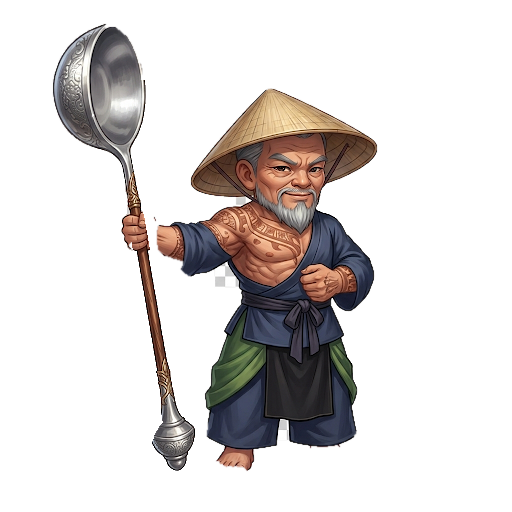
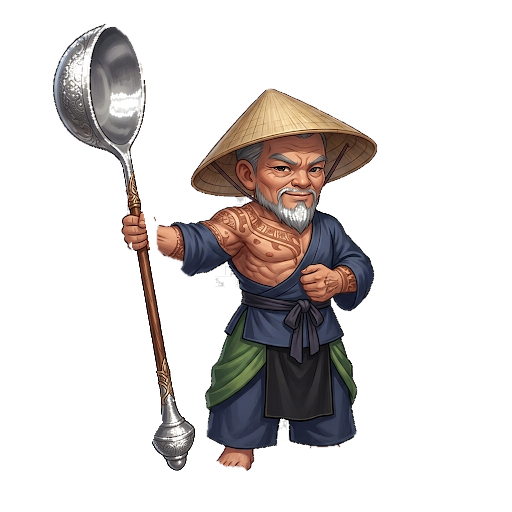
ui: o do + giao dien nhan vat chuan Kiem The (clip IMG_8105)
- O trang bi: khong dong la/cong xong cung lon hước kim loai dong lom vao, nho tin hong quang tran ra khoi khung + vet lalap lanh quet theo tuan hoan
- Glow tier theo cap cuong hoa: +9..+11 tim, +12..+13 vang kim, +14..+15 do ruc — mau khong de len pham co mau san
- Ong Pho: sua lo mang caro trong master-fullbody.png (alpha buoc ve trong suot)

diff --git a/src/ui/account-gear-board.css b/src/ui/account-gear-board.css
@@ -518,3 +518,59 @@
 .hv-gear-slot[class*="rar-"] img,.hv-smelt-cell[class*="rar-"] img{position:relative;z-index:1}
 .hv-gear-slot[class*="rar-"] .lvl,.hv-gear-slot[class*="rar-"] .roman,
 .hv-smelt-cell[class*="rar-"] .lvl,.hv-smelt-cell[class*="rar-"] em{z-index:3;text-shadow:0 0 3px #000}
+
+/* Owner 2026-10-27: ô đồ + giao diện nhân vật theo chuẩn Kiếm Thế trong clip IMG_8105.
+   Khung ô = kim loại đồng lõm vào (vát sáng trên-trái, tối dưới-phải, nền hốc tối),
+   đồ cường hoá cao tỏa hào quang TRÀN RA NGOÀI khung + vệt lấp lánh quét qua — đúng clip. */
+.hv-gear-slot{
+  border:2px solid #4a4030;border-radius:3px;
+  background:linear-gradient(180deg,#191714,#23201a 55%,#16140f);
+  box-shadow:
+    inset 1px 1px 0 rgba(212,190,140,.30),
+    inset -1px -1px 0 rgba(0,0,0,.85),
+    inset 0 0 7px rgba(0,0,0,.75),
+    0 0 0 1px #0d0b09,
+    0 2px 3px rgba(0,0,0,.5);
+}
+.hv-gear-slot.is-empty{background:linear-gradient(180deg,#141210,#1c1915)}
+.hv-gear-slot.is-empty:after{content:"";position:absolute;inset:0;background:radial-gradient(ellipse 70% 60% at 50% 55%,rgba(255,240,200,.05),transparent 75%);pointer-events:none}
+
+/* Hào quang tràn ra ngoài khung 3-4px + lòng trong rực */
+.hv-gear-slot.hv-glow-purple{
+  border:2px solid #c48ae6;
+  box-shadow:0 0 12px 4px rgba(156,84,255,.60),0 0 4px 1px rgba(200,140,255,.9),inset 0 0 6px rgba(214,150,255,.95),inset 1px 1px 0 rgba(212,190,140,.30),0 0 0 1px #0d0b09;
+}
+.hv-gear-slot.hv-glow-gold{
+  border:2px solid #ffd242;
+  box-shadow:0 0 13px 4px rgba(255,150,20,.65),0 0 4px 1px rgba(255,220,110,.95),inset 0 0 6px rgba(255,250,180,1),inset 1px 1px 0 rgba(212,190,140,.30),0 0 0 1px #0d0b09;
+}
+.hv-gear-slot.hv-glow-red{
+  border:2px solid #ff5422;
+  box-shadow:0 0 14px 5px rgba(255,90,20,.70),0 0 4px 1px rgba(255,170,90,.95),inset 0 0 6px rgba(255,180,90,1),inset 1px 1px 0 rgba(212,190,140,.30),0 0 0 1px #0d0b09;
+}
+
+/* Vệt lấp lánh quét chéo (shimmer) lặp tuần hoàn trên ô đã cường hoá */
+@keyframes hvSlotSweep{0%{transform:translateX(-130%) rotate(10deg)}55%,100%{transform:translateX(130%) rotate(10deg)}}
+.hv-gear-slot[class*="hv-glow-"]::after{
+  content:"";position:absolute;inset:-12%;z-index:2;pointer-events:none;mix-blend-mode:screen;
+  background:linear-gradient(115deg,transparent 40%,rgba(255,255,225,.55) 50%,transparent 60%);
+  animation:hvSlotSweep 3.2s linear infinite;
+}
+.hv-gear-slot.hv-glow-purple,.hv-gear-slot.hv-glow-gold,.hv-gear-slot.hv-glow-red{animation:hvGlowBreath 2.6s ease-in-out infinite alternate}
+@keyframes hvGlowBreath{from{filter:brightness(1)}to{filter:brightness(1.2)}}
+
+/* Canvas lửa cường hoá + nút + chữ số: chuẩn đồng cổ */
+.hv-gear-slot.hv-fx-host>canvas.hv-fx{border-radius:3px}
+.hv-gear-slot .plus{background:linear-gradient(180deg,#7a6136,#3d2f18);color:#f3d48a;border:1px solid #8a744c;box-shadow:inset 0 1px 0 rgba(255,235,190,.35),0 1px 2px rgba(0,0,0,.5)}
+.hv-gear-slot .lvl{top:2px;right:2px;font-size:11px;color:#ffe9a8;text-shadow:0 1px 0 #000,0 0 4px rgba(0,0,0,.9);background:linear-gradient(180deg,rgba(24,18,10,.85),rgba(24,18,10,.55));border-radius:6px;padding:0 4px;border:1px solid rgba(178,144,74,.7)}
+.hv-gear-slot[class*="hv-glow-"] .lvl{color:#fff3b8;font-size:12px}
+
+/* Giao diện nhân vật: backlight sau lưng + đế sáng dưới chân (lớp stage, dưới panel) */
+.hv-gear-hero{filter:drop-shadow(0 14px 20px rgba(0,0,0,.5)) drop-shadow(0 0 26px rgba(255,190,90,.30))}
+.hv-gear-stage:after{
+  content:"";position:absolute;inset:0;z-index:0;
+  background:
+    radial-gradient(ellipse 38% 28% at 50% 42%,rgba(255,174,74,.34),rgba(255,140,50,.13) 60%,transparent 82%),
+    radial-gradient(ellipse 30% 7% at 50% 84%,rgba(255,204,116,.34),rgba(255,146,54,.12) 60%,transparent 82%),
+    linear-gradient(180deg,rgba(12,8,6,.28) 0%,transparent 26%,transparent 46%,rgba(16,10,6,.55) 72%,rgba(16,10,6,.2) 100%);
+}
